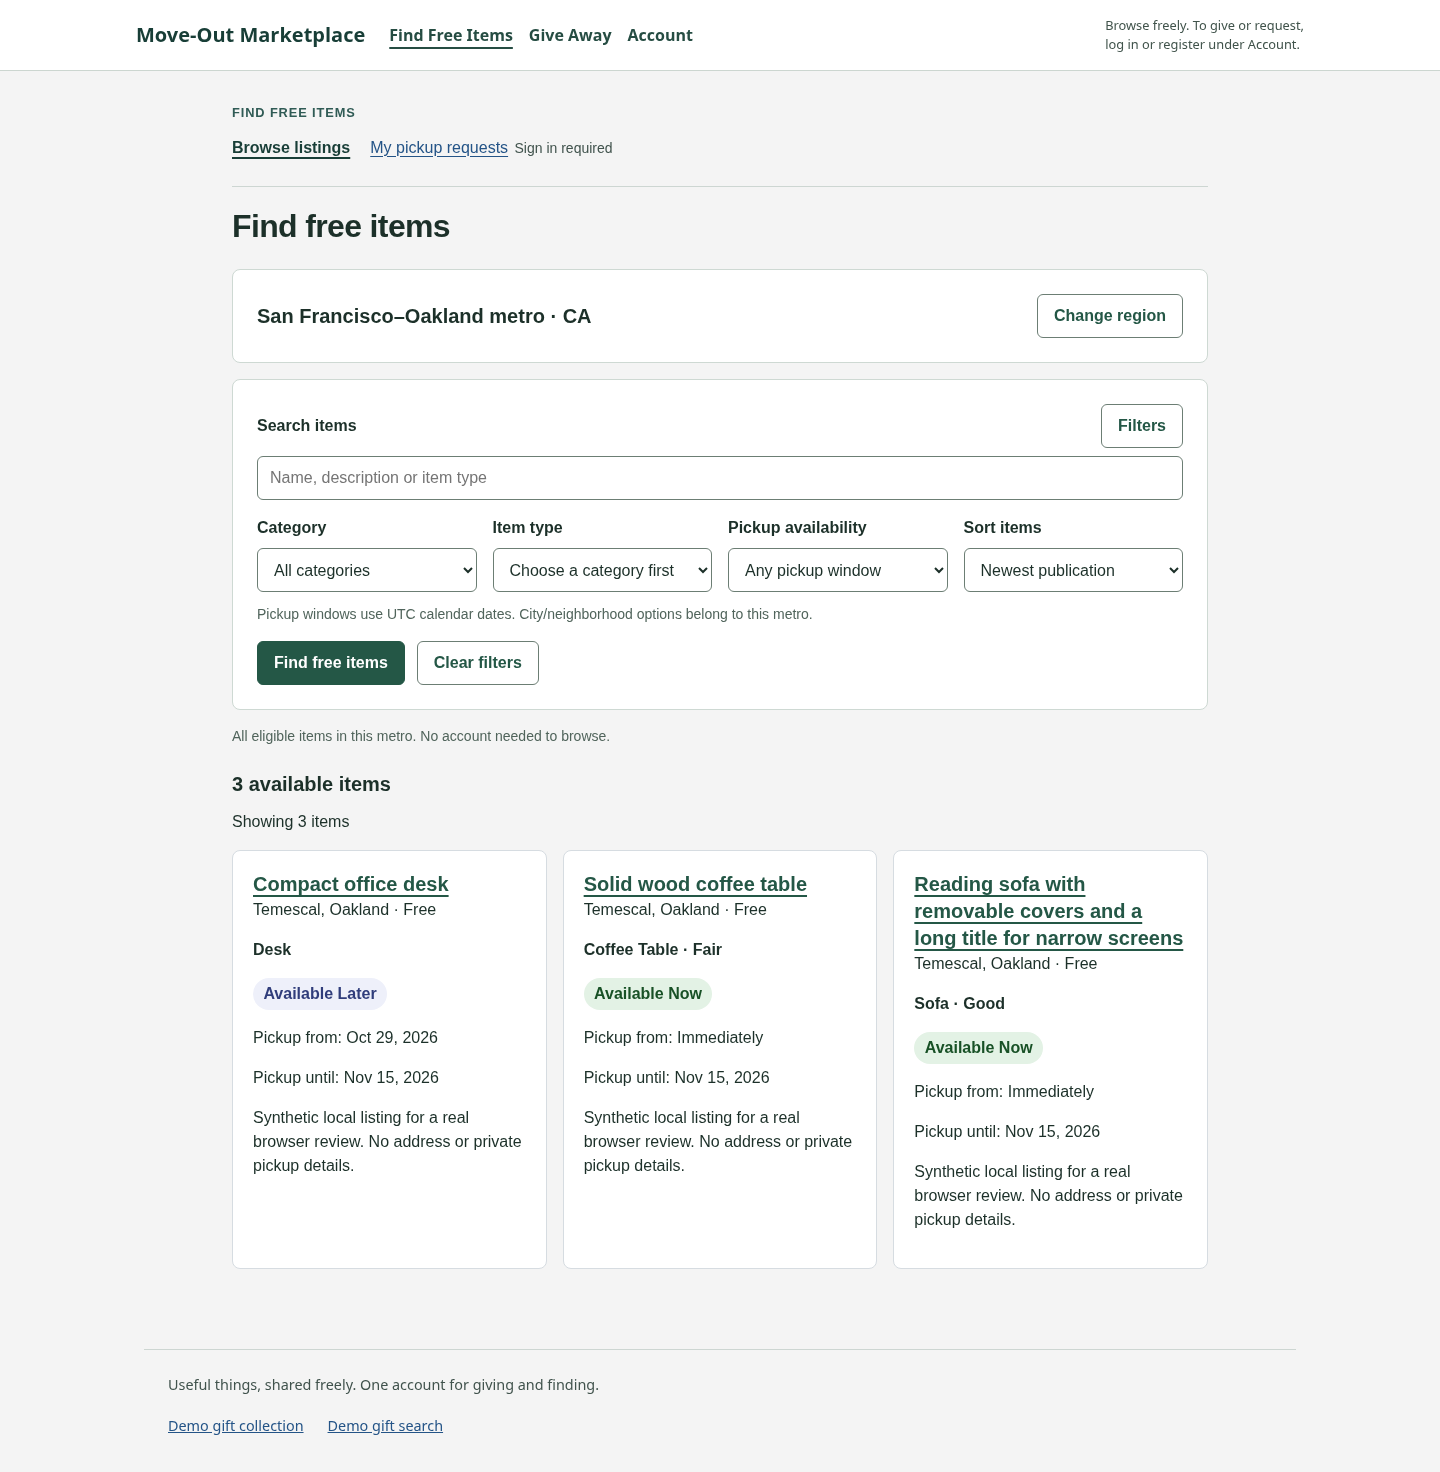
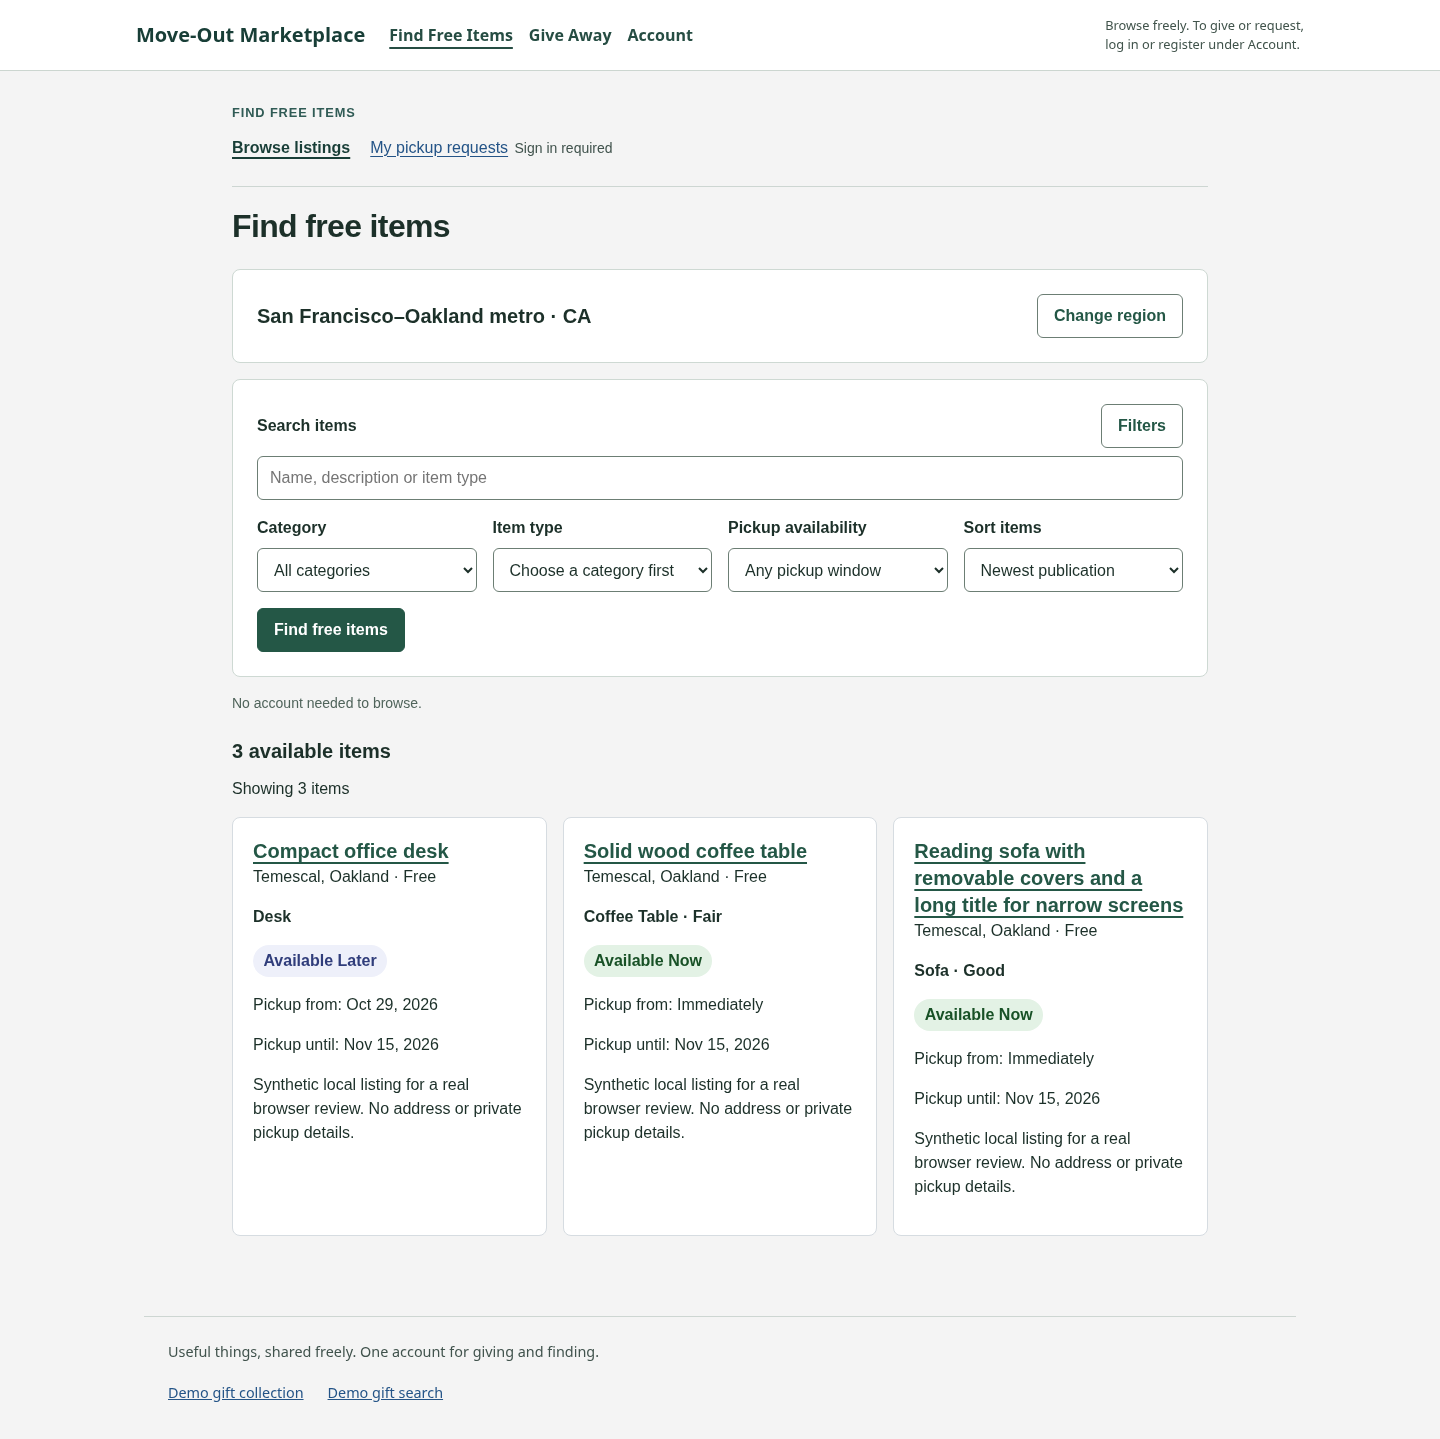
Keep first results visible and progressively reveal narrow-screen filters

diff --git a/giftlink-frontend/src/components/Inventory/PublicItems.js b/giftlink-frontend/src/components/Inventory/PublicItems.js
@@ -128,6 +128,7 @@ function Discovery() {
   }
   if (params.get('availability') && params.get('availability') !== 'all') applied.push(`Pickup: ${params.get('availability') === 'date' ? params.get('date') || 'choose a date' : params.get('availability')}`);
   if (params.get('sort') === 'deadline') applied.push('Sort: earliest pickup deadline');
+  const canClear = (applied.length > 0 || Object.entries(fields).some(([name, value]) => !['stateId', 'metroId'].includes(name) && value && !((name === 'availability' && value === 'all') || (name === 'sort' && value === 'newest'))));
   const filterCount = applied.length - (params.get('q') ? 1 : 0);
   const closeFilters = () => {
     if (filterRegion.current?.contains(document.activeElement) || document.activeElement?.closest('.discovery-extra-option')) filterToggle.current?.focus();
@@ -186,7 +187,7 @@ function Discovery() {
   return <main className="ui-page discovery-page discovery-feed">
     <JourneyNav journey="find" />
     <PageHeader title="Find free items" />
-    <Surface aria-label="Browsing area" className="discovery-area">
+    <Surface aria-label="Browsing area" className={`discovery-area${selected ? ' discovery-area--selected' : ''}`}>
       {selected && <div className="discovery-area-heading">
         <p className="discovery-area-name">{selected.shortLabel || selected.label.split(', ')[0]}{regionCodes ? ` · ${regionCodes}` : ''}</p>
         <button ref={regionButton} type="button" className="ui-button ui-button--secondary" aria-expanded={regionEditing} aria-controls="discovery-region-options"
@@ -201,7 +202,7 @@ function Discovery() {
       </div>
     </Surface>
     {selected && <>
-    <Surface as="form" aria-label="Search and filters" className={`discovery-filters${filtersOpen ? ' discovery-filters--expanded' : ''}`} onSubmit={submit} noValidate
+    <Surface as="form" aria-label="Search and filters" className={`discovery-filters${filtersOpen ? ' discovery-filters--expanded' : ''}${category ? ' discovery-filters--has-category' : ''}`} onSubmit={submit} noValidate
       onKeyDown={event => { if (event.key === 'Escape' && filtersOpen) { event.preventDefault(); closeFilters(); filterToggle.current?.focus(); } }}>
       <div className="ui-field discovery-search"><div className="discovery-search-heading"><label htmlFor="browse-q">Search items</label>
         <button type="button" ref={filterToggle} className="ui-button ui-button--secondary" aria-expanded={filtersOpen} aria-controls="discovery-common-options discovery-filter-options"
@@ -211,7 +212,7 @@ function Discovery() {
         <div className="ui-field"><label htmlFor="browse-category">Category</label><select id="browse-category" name="categoryId" value={fields.categoryId} onChange={change} disabled={catalog.loading || Boolean(catalog.error)}>
           <option value="">All categories</option>{catalog.data?.categories.map(entry => <option value={entry.id} key={entry.id}>{entry.label}</option>)}
         </select></div>
-        <div className="ui-field"><label htmlFor="browse-type">Item type</label><select id="browse-type" name="itemTypeId" value={fields.itemTypeId} onChange={change} disabled={!category || catalog.loading || Boolean(catalog.error)}>
+        <div className="ui-field discovery-type-option"><label htmlFor="browse-type">Item type</label><select id="browse-type" name="itemTypeId" value={fields.itemTypeId} onChange={change} disabled={!category || catalog.loading || Boolean(catalog.error)}>
           <option value="">{category ? 'All item types' : 'Choose a category first'}</option>{category?.itemTypes.map(entry => <option value={entry.id} key={entry.id}>{entry.label}</option>)}
         </select></div>
         <div className="ui-field discovery-extra-option"><label htmlFor="browse-availability">Pickup availability</label><select id="browse-availability" name="availability" value={fields.availability} onChange={change}>
@@ -232,10 +233,10 @@ function Discovery() {
         <div className="ui-field"><label htmlFor="browse-neighborhood">Neighborhood</label><select id="browse-neighborhood" name="neighborhood" value={neighborhood} onChange={change}><option value="">All neighborhoods</option>
           {neighborhoods.map(value => <option key={key(value)} value={value}>{value}</option>)}</select></div>
       </div>
-      <p className="discovery-help">Pickup windows use UTC calendar dates. City/neighborhood options belong to this metro.</p>
-      <div className="discovery-search-actions"><button className="ui-button">Find free items</button><button type="button" className="ui-button ui-button--secondary" onClick={clear}>Clear filters</button></div>
+      {filtersOpen && <p className="discovery-help">Pickup windows use UTC calendar dates. City/neighborhood options belong to this metro.</p>}
+      <div className="discovery-search-actions"><button className="ui-button">Find free items</button>{canClear && <button type="button" className="ui-button ui-button--secondary" onClick={clear}>Clear filters</button>}</div>
     </Surface>
-    <p className="discovery-summary" aria-label="Applied filters">{applied.length ? applied.join(' · ') : 'All eligible items in this metro. No account needed to browse.'}</p>
+    <p className="discovery-summary" aria-label="Applied filters">{applied.length ? applied.join(' · ') : 'No account needed to browse.'}</p>
     {catalog.error && <p role="alert">Item filter options are unavailable. <button onClick={catalog.retry}>Retry item filters</button></p>}
     {places.loading && <p role="status">Loading location options…</p>}
     {places.error && <div role="alert">Location options could not be loaded. <button onClick={() => setLocationAttempt(value => value + 1)}>Retry location options</button></div>}

diff --git a/giftlink-frontend/src/components/Inventory/PublicItems.test.js b/giftlink-frontend/src/components/Inventory/PublicItems.test.js
@@ -408,3 +408,11 @@ test('closing optional filters from their contents returns focus and preserves u
   expect(screen.getByLabelText('Condition')).not.toBeVisible();
   await click('Filters'); expect(screen.getByLabelText('Condition')).toHaveValue('fair');
 });
+
+test('reset is offered only when useful and clears unsubmitted filters without losing the area', async () => {
+  mount(); await ready(); expect(screen.queryByRole('button', { name: 'Clear filters' })).not.toBeInTheDocument();
+  fireEvent.change(screen.getByLabelText('Category'), { target: { value: 'living-room' } });
+  await click('Clear filters'); await ready();
+  expect(screen.getByLabelText('Category')).toHaveValue(''); expect(screen.getByLabelText('Current URL')).toHaveTextContent('metroId=41860');
+  expect(screen.queryByRole('button', { name: 'Clear filters' })).not.toBeInTheDocument();
+});

diff --git a/giftlink-frontend/src/components/Inventory/Discovery.css b/giftlink-frontend/src/components/Inventory/Discovery.css
@@ -23,3 +23,9 @@
   .discovery-feed .discovery-extra-option { display: none; }
   .discovery-feed .discovery-filters--expanded .discovery-extra-option { display: block; }
 }
+@media (max-width: 600px) {
+  .discovery-feed .discovery-area--selected { background: transparent; border: 0; padding: 0; margin-bottom: var(--ui-space-6); }
+  .discovery-feed .discovery-type-option { display: none; }
+  .discovery-feed .discovery-filters--has-category .discovery-type-option,
+  .discovery-feed .discovery-filters--expanded .discovery-type-option { display: block; }
+}

diff --git a/docs/milestone-6.4c-discovery.md b/docs/milestone-6.4c-discovery.md
@@ -79,7 +79,9 @@ PRs; later stages add the final full-suite results here.
 The page now uses PageHeader, Surface and existing tokens, with a stable Find free
 items heading and a compact area summary. The canonical full metro name stays in
 the selector. Category/type are visible; desktop also shows pickup/sort directly.
-At ≤600px pickup/sort join optional filters to keep results closer to search.
+At ≤600px pickup/sort join optional filters; item type appears after choosing
+a category or opening Filters. Reset/help are shown only when useful, and the
+selected-area summary avoids an extra padded surface.
 Condition and city/neighborhood remain collapsed, with keyboard Escape and safe
 focus return. Date errors reopen controls and focus the date; unsubmitted filters
 survive disclosure toggles. No modal, GPS or additional form submission is needed
@@ -96,3 +98,7 @@ overflow or server errors. Visual review prompted narrower-screen progressive
 filters rather than showing all controls at once. The six retained layout images
 show region, populated and expanded-filter states at desktop/320px; final card
 and error-state images follow in the next dependent change.
+
+CI initially caught the first card falling below the mobile viewport. The layout
+was corrected; the original viewport assertion and all workflow safeguards remain.
+This was a product reflow problem, not an excuse to scroll in the assertion.
